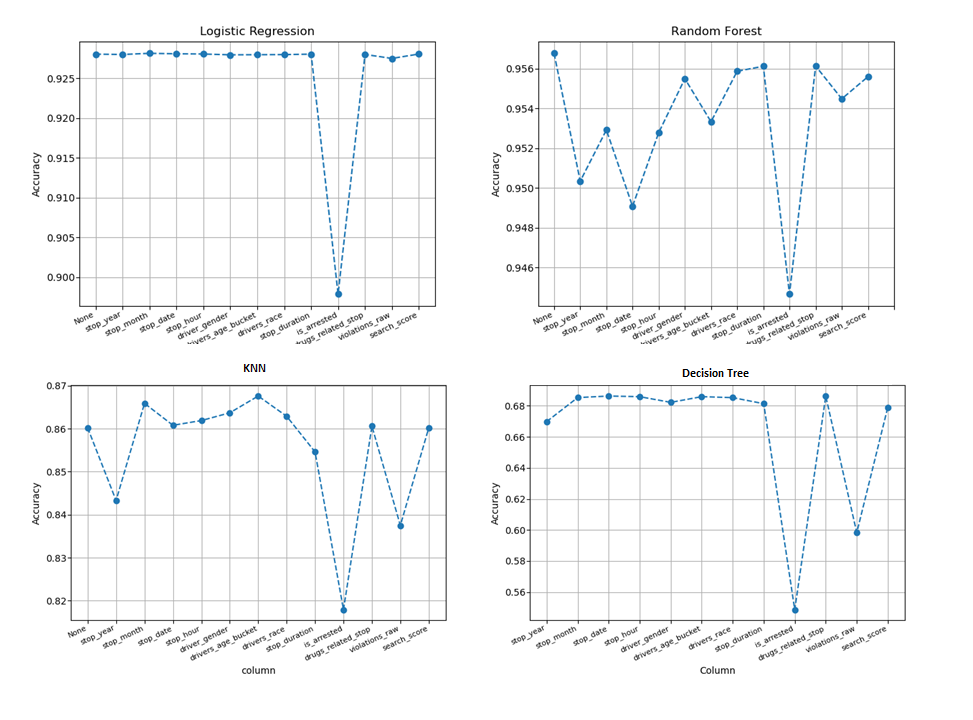
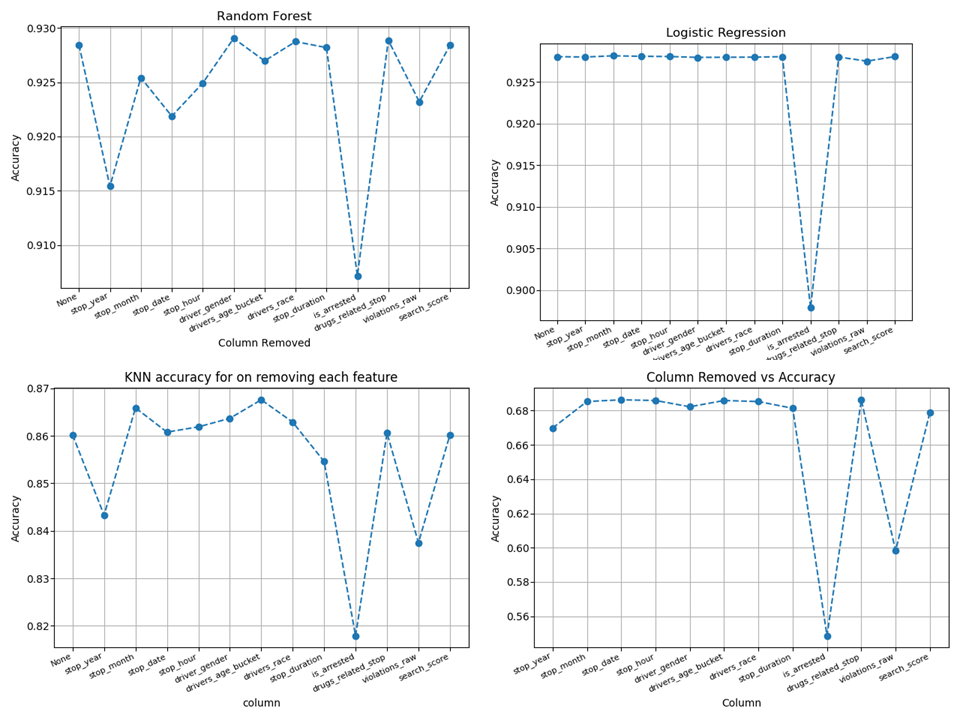
update visualization, random forest, and final.md
fixed random forest visualization to use the generic method created
earlier, incorporated implementation for the non-resampled data, and
changed final.md

Changed region(s): [[0.0, 0.0, 1.0, 1.0], [0.9688, 0.7944, 1.0, 0.825], [0.9688, 0.55, 1.0, 0.5806]]

diff --git a/project.py b/project.py
@@ -616,20 +616,12 @@ def random_forest(X_train, X_test, y_train, y_test, df_clean):
 #  
 # Parameters
 # random_forest: dictionary containing results after individually removing columns
-def random_forest_visualizaton(random_forest):
+def random_forest_visualizaton(random_forest,type):
     # Visualization based on removing individual columns and their respective accuracy
-    plt.plot(list(random_forest.values()), '--', marker='o')
-    ax = plt.subplot()
+    X_axis = list(random_forest.keys())
+    Y_axis = list(random_forest.values())
 
-    keys = random_forest.keys()
-    ax.set_xticklabels(keys, rotation=(25), fontsize=8, ha='right')
-    plt.xticks((0, 1, 2, 3, 4, 5, 6, 7, 8, 9, 10, 11, 12, 13), keys)
-
-    plt.title('Random Forest')
-    plt.xlabel('Columns Removed')
-    plt.grid(True)
-    plt.ylabel('Accuracy')
-    plt.savefig('analysis_visualization/random_forest.png')
+    plot_line_chart(X_axis, Y_axis, "Column Removed", "Accuracy", "Random Forest", "analysis_visualization/random_forest_{}.png".format(type))
 
 # Apply Decision Tree classifier algorithm on the dataset and compare how different 
 # approaches in implementing the algorithm impacts the accuracy
@@ -914,17 +906,26 @@ if __name__ == "__main__":
 
 
     # Random Forest
-    # random_forest_results = random_forest(X_train, X_test, y_train, y_test, dataframe)
+    # Original Data
+    # random_forest_results = random_forest(X_train_orig, X_test_orig, y_train_orig, y_test_orig, dataframe_orig)
+    # Results from running random forest WITH ORIGINAL (so you don't have to run the method)
+    # random_forest_results = {'None': 0.9267901887388534, 'stop_year': 0.9225951283381028, 'stop_month': 0.9195216378715305, 
+    # 'stop_date': 0.9111169567927885, 'stop_hour': 0.919958632899766, 'driver_gender': 0.9260764349312349, 
+    # 'drivers_age_bucket': 0.9211530328633148, 'drivers_race': 0.9256394908241876, 'stop_duration': 0.9267173438574698, 
+    # 'is_arrested': 0.8986191255845395, 'drugs_related_stop': 0.92706694009223, 'violations_raw': 0.9240226264056173, 
+    # 'search_score': 0.9265280072104403}
+    # random_forest_visualizaton(random_forest_results, "original")
 
-    # Results from running random forest (so you don't have to run the method)
+    # Resampling Data
+    # random_forest_results = random_forest(X_train, X_test, y_train, y_test, dataframe)
+    # Results from running random forest WITH RESAMPLING (so you don't have to run the method)
     # Comment out the following line if you decide to run the random_forest method and get the accuracies from there
-    # random_forest_results = {'None': 0.9567625, 'stop_year': 0.9503375000000001, 'stop_month': 0.9529125, 
-    # 'stop_date': 0.949075, 'stop_hour': 0.9527749999999999, 'driver_gender': 0.9554874999999999, 
-    # 'drivers_age_bucket': 0.9533250000000001, 'drivers_race': 0.9558625000000001, 'stop_duration': 0.9561125, 
-    # 'is_arrested': 0.9446625, 'drugs_related_stop': 0.9561249999999999, 'violations_raw': 0.9544750000000001, 
-    # 'search_score': 0.9555875}
+    # random_forest_results = {'None': 0.9284500000000001, 'stop_year': 0.9154, 'stop_month': 0.925425, 'stop_date': 0.921875, 
+    # 'stop_hour': 0.924925, 'driver_gender': 0.9290499999999999, 'drivers_age_bucket': 0.926975, 'drivers_race': 0.92875, 
+    # 'stop_duration': 0.9282, 'is_arrested': 0.90715, 'drugs_related_stop': 0.928875, 'violations_raw': 0.9231999999999999, 
+    # 'search_score': 0.9284500000000001}
     # Displaying results from running random forest
-    # random_forest_visualizaton(random_forest_results)
+    # random_forest_visualizaton(random_forest_results, "resampling")
 
 
 

diff --git a/final_report.md b/final_report.md
@@ -47,7 +47,7 @@ param_grid ={'C':[0.001, 0.1, 1, 10, 100],
 
 ## Random Forest
 
-We chose random forest as a model to try out because random forests can be influenced less by outliers and that random forest provides a better understanding of the relationship features have with the target and the kind of influence they have on the dataset. The way we implemented Random Forest was to put the model inside of Grid Search to best find the hyperparameters to use. There were a couple approaches we tried on the model.
+We chose random forest as a model to try out because random forests can be influenced less by outliers and that random forest provides a better understanding of the relationship features have with the target and the kind of influence they have on the dataset. Random forest is good because having a large number of trees that work together will outperform individual models. The way we implemented Random Forest was to put the model inside of Grid Search to best find the hyperparameters to use. There were a couple approaches we tried on the model.
 
 Using GridSearchCV, we found the best parameters out of a list of parameters for n_estimators and max_depth to use on the random forest model. Grid search will loop through every possibility in `param_grid` and test it on the model and save the best parameters to use. In the end, `n_estimators` as 250 and `max_depth` as None proved to be the best parameters to run random forest on. The code block below shows the `param_grid` use to find the best parameters:
 
@@ -63,13 +63,27 @@ The next piece of information we wanted to find out was which column(s) impact t
 
 One last approach in analyzing the model is how accurate it was predicting the `stop_outcome`. By calling the `find_accuracy_of_each_class` method in the `common_utils.py` file, we were able to see the accuracy the model is having in identifying each `stop_outcome` type. We put this method after each time we run the loop mentioned in the previous paragraph and the accuracy looked like the following table with given a +/- 0.002 margin.
 
+Since decision trees and random forests are similar, we compared the two when testing out the models. For example, I would test out different `max_depths` that decision tree saw that were good to see if it would translate to random forest.
+
+Lastly, we figured later into the project that we should have resampled our data. So we compared our original preprocessed data with the resampled data to see if the resampled data helped improve accuracy in our models. In the end, random forest gave an accuracy of around 94% with the resampled data and the original data gave around 92%. Trends between the two outputs are really similar, only around a 2% difference in accuracies because of the way the resampling works (explained in the conclusion). Random forest seems to be a good option for this dataset since .
+
+### Original Data Accuracy
+| stop_outcome     | accuracy |
+| ---------------- | -------- |
+| Arrest Driver    | 1.000000 |
+| Arrest Passenger | 0.030303 |
+| Citation         | 0.995253 |
+| No Action        | 0.293578 |
+| Warning          | 0.036765 |
+
+### Resampled Data Accuracy
 | stop_outcome     | accuracy |
 | ---------------- | -------- |
 | Arrest Driver    | 1.000000 |
 | Arrest Passenger | 1.000000 |
-| Citation         | 0.843259 |
+| Citation         | 0.780292 |
 | No Action        | 1.000000 |
-| Warning          | 0.967047 |
+| Warning          | 0.919177 |
 
 ## Decision Tree
 
@@ -89,7 +103,7 @@ We have found the best parameters for our model can be obtained by using the gri
 
 --If we set it too low, then the decision tree has too little flexibility to capture the patterns and interactions in the training data
 
-**Variation of Accuracy with depth**
+### Variation of Accuracy with depth
 ![Variation with depth](analysis_visualization/decision_tree_depth_with_resampling.png)
 
 Based on the analysis, we understood the data we had was inbalanced, which means the final outcome didnt have a equal distribution of outcomes. For example, citation was the most dominant followed by other. So we had to do sampling of the data, either downsampling or upsampling to a value where we have equal balance of data.
@@ -97,8 +111,7 @@ Based on the analysis, we understood the data we had was inbalanced, which means
 The reason for removal of each column is to analyze the impact of each column on the outcome. For example when we remove a column called is_arrested, the accuray reduction was observed indicating its a valuable column.
 
 
-**Variation of Accuracy when each column is Removed**
-
+### Variation of Accuracy when each column is Removed
 ![Column Removal](analysis_visualization/decision_tree_column_with_resampling.png)
 
 | stop_outcome     | accuracy |
@@ -153,7 +166,7 @@ Finally, the above graphs shows how data is clustered. We observe that all the d
 
 In following graphs, we remove one column at time and look at the accuracy with which each of the models is able to predict/classify. We notice that the accuracy decreases upon removing column is_arrested in each of the methods. This indicates that is_arrested is the most important column in this data since this directly leads to either arrest of driver or passenger.
 
-![Logistic Regression analysis](analysis_visualization/remove_columns.png)
+![Comparision after removing columns](analysis_visualization/remove_columns.png)
 
 <!-- * Accuracy using KNN 
 
@@ -175,15 +188,15 @@ Comparing what we did in our project to the [Kaggle competition](https://www.kag
 
 # Conclusion
 
-**Which model is performing better? Why? Is it being overfitted?**
+### Which model is performing better? Why? Is it being overfitted?
 
 Logistic Regression gave an accuracy of 92.8% without re-sampling and after sampling it gave an accuracy of 96%. It clearly indicates that initially Logistic Regression model was being overfitted since the data was bias towards a particular attribute therefore learning model outputs were bias too. After resampling, the model started to learn and was no longer overfitted.
 
-**How similar or different are results from decision tree and random forest? Why?**
+### How similar or different are results from decision tree and random forest? Why?
 
-In our case we did the decision tree based classification based on the parameters provided by the gridsearch. Based on the optimum depth we performed the accuracy calculations. But a random forest is a combination of various different decision trees, and it takes the average/best decision tree of all of those predictions.
+In our case we did the decision tree based classification based on the parameters provided by the gridsearch. Based on the optimum depth we performed the accuracy calculations. But a random forest is a combination of various different decision trees, and it takes the average/best decision tree of all of those predictions. Random forest doesn't rely on feature importance on a single decision tree because of the way random forest randomly chooses features during the training process. Another reason why random forest would perform better is that random forest trees are already fully grown and unpruned so the feature space is smaller compared to decision tree as well as having diverse trees.
 
-**Why did we have to resample our data? How did it impact our results?**
+### Why did we have to resample our data? How did it impact our results?
 
 * The following table shows the number of occurances of each outcome. We see that *citation* is dominating and this will result in the models learning from an "imbalanced" data. 
 
@@ -198,5 +211,4 @@ In our case we did the decision tree based classification based on the parameter
 * We resampled our data so that each outcome appears 10000 times in the dataset. This will make the outcomes evenly distributed for any model to train and learn from the data that is present. Implementation can be found under `resample_data` method in `project.py` file.  
 * Looking at the table also observe a significant change in prediction accuracy of each outcome after resampling our data (Values written are for KNN implementation with 5 neighbours. Similar results were obtained by other algorithms as well)
 
-
-**Scope for improvement**
+### Scope for improvement
